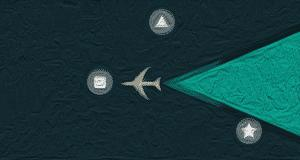
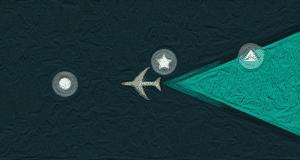
新增螺丝帽点选破解

diff --git a/luosimao/geetest.py b/luosimao/geetest.py
@@ -9,11 +9,15 @@ import re
 import json
 import requests
 import execjs
+from bs4 import BeautifulSoup
 from luosimao import img_locate
+import time
 from luosimao.lsm_crypt import aes_encrypt, md5_encrypt
 from luosimao.chaojiying import image_to_text
 
-headers = {
+
+session = requests.session()
+session.headers = {
     'Content-type': 'application/x-www-form-urlencoded',
     'Origin': 'https://captcha.luosimao.com',
     'Referer': 'https://captcha.luosimao.com/api/widget?k=e7b4d20489b69bab25771f9236e2c4be&l=zh-cn&s=normal&i=_x0lu27ots',
@@ -22,18 +26,33 @@ headers = {
 }
 
 
-def _init_slider():
+def _req_widiget():
+    """
+    初始化环境
+    :return:
+    """
+    url = 'https://captcha.luosimao.com/api/widget?k=e7b4d20489b69bab25771f9236e2c4be&l=zh-cn&s=normal&i=_2ymuhhcry'
+    resp = session.get(url)
+    bsobj = BeautifulSoup(resp.text, 'lxml')
+    data_token = bsobj.select('#l_captcha_widget')[0]['data-token']
+    return data_token
+
+
+def _init_slider(data_token):
     """
     初始化验证码
+    :param data_token:
     :return:
     """
     url = 'https://captcha.luosimao.com/api/request?k=e7b4d20489b69bab25771f9236e2c4be&l=zh-cn'
+    env_param = "Mozilla/5.0 (Windows NT 10.0; Win64; x64) AppleWebKit/537.36 (KHTML, like Gecko) Chrome/75.0.3770.80 Safari/537.36||{}||1366:768||win32||webkit".format(data_token)
+    click_param = "138,41:{}||154,33:{}".format(int(round(time.time() * 1000)), int(round(time.time() * 1000)))
     data = {
-        'bg': 'g2heqaxX6YkuuSgnaqY2ArxuBS8dZmrn9ObmF26IbGDJE/UhMPONsbnkY4Ktxp66n7FtT0DeWQmV7Fjj3v6cguu LTTnrhbiAZmmMOWiMTalzoEBCAwa5beDmHTW/TF0T9M0RI9229Igfen7WZCUHQGiIgaDb1tYjIl2 e4Di1uBZNci8 f3rkyzfHi9jHoJjrrBOb7Afs1Bv6xCBy2oTBGk/Z12DaccOjQe3NYSZj0=',
[1 lines of base64/hex data omitted]
+        'bg': aes_encrypt("c28725d494c78ad782a6199c341630ee", "2801003954373300", env_param),
+        'b': aes_encrypt("c28725d494c78ad782a6199c341630ee", "2801003954373300", click_param)
     }
-
-    resp = requests.post(url, headers=headers, data=data).json()
+    resp = session.post(url, data=data).json()
+    print(resp)
     return resp
 
 
@@ -46,10 +65,10 @@ def get_captcha(s):
     url = 'https://captcha.luosimao.com/api/frame'
     params = {
         's': s,
-        'i': '_nv0uo1kzr',
+        'i': '_2ymuhhcry',
         'l': 'zh-cn'
     }
-    resp = requests.get(url, params=params, headers=headers)
+    resp = session.get(url, params=params)
     captcha_data = re.search('var captchaImage = ({.*?})', resp.text, re.S).group(1)
     captcha_url = re.search(r"p:\['(.*?)',", captcha_data, re.S).group(1)
     merge_array = json.loads(re.search(r'l:(.*?)}', captcha_data).group(1))
@@ -88,7 +107,7 @@ def _slider_verify(init_data, position):
     # }
     data = encrypt_data(init_data, position)
     print(data)
-    result = requests.post(url, data=data, headers=headers).json()
+    result = session.post(url, data=data).json()
     print(result)
     if result['res'] == 'success':
         return result['resp']
@@ -114,6 +133,8 @@ def crack(init_data):
     ok, position = image_to_text(img_data, img_kind=9004)
     if ok:
         # 最终验证
+        position = position.replace('|', '#')
+        print(position)
         result = _slider_verify(init_data, position)
         if isinstance(result, str):
             return {
@@ -140,6 +161,7 @@ def crack(init_data):
 
 
 if __name__ == '__main__':
-    x = _init_slider()
-    y = crack(x)
-    print(y)
+    x = _req_widiget()
+    y = _init_slider(x)
+    z = crack(y)
+    print(z)

diff --git a/luosimao/chaojiying.py b/luosimao/chaojiying.py
@@ -53,8 +53,8 @@ class ChaojiyingClient(object):
 
 
 def image_to_text(img,
-                  username='******',
-                  password='*******',
+                  username='aaronjny',
+                  password='lezhicom',
                   soft_id='497bc231401f085df56dae7c2e3a9b86',
                   img_kind=1902):
     """
@@ -68,7 +68,6 @@ def image_to_text(img,
     """
     chaojiying = ChaojiyingClient(username, password, soft_id)
     result = chaojiying.PostPic(img, img_kind)
-    print(result)
     if result['err_no'] == 0:
         return True, result['pic_str']
     else:

diff --git a/luosimao/img_locate.py b/luosimao/img_locate.py
@@ -31,6 +31,7 @@ def make_word(text):
     制作描述图片
     :return:
     """
+    text = text.replace('<i>', '').replace('</i>', '')
     # 初始化图片对象, (300, 30)为图片大小, (255, 255, 255) 为白色背景
     img = Image.new('RGB', (300, 30), (255, 255, 255))
     # 设置字体
